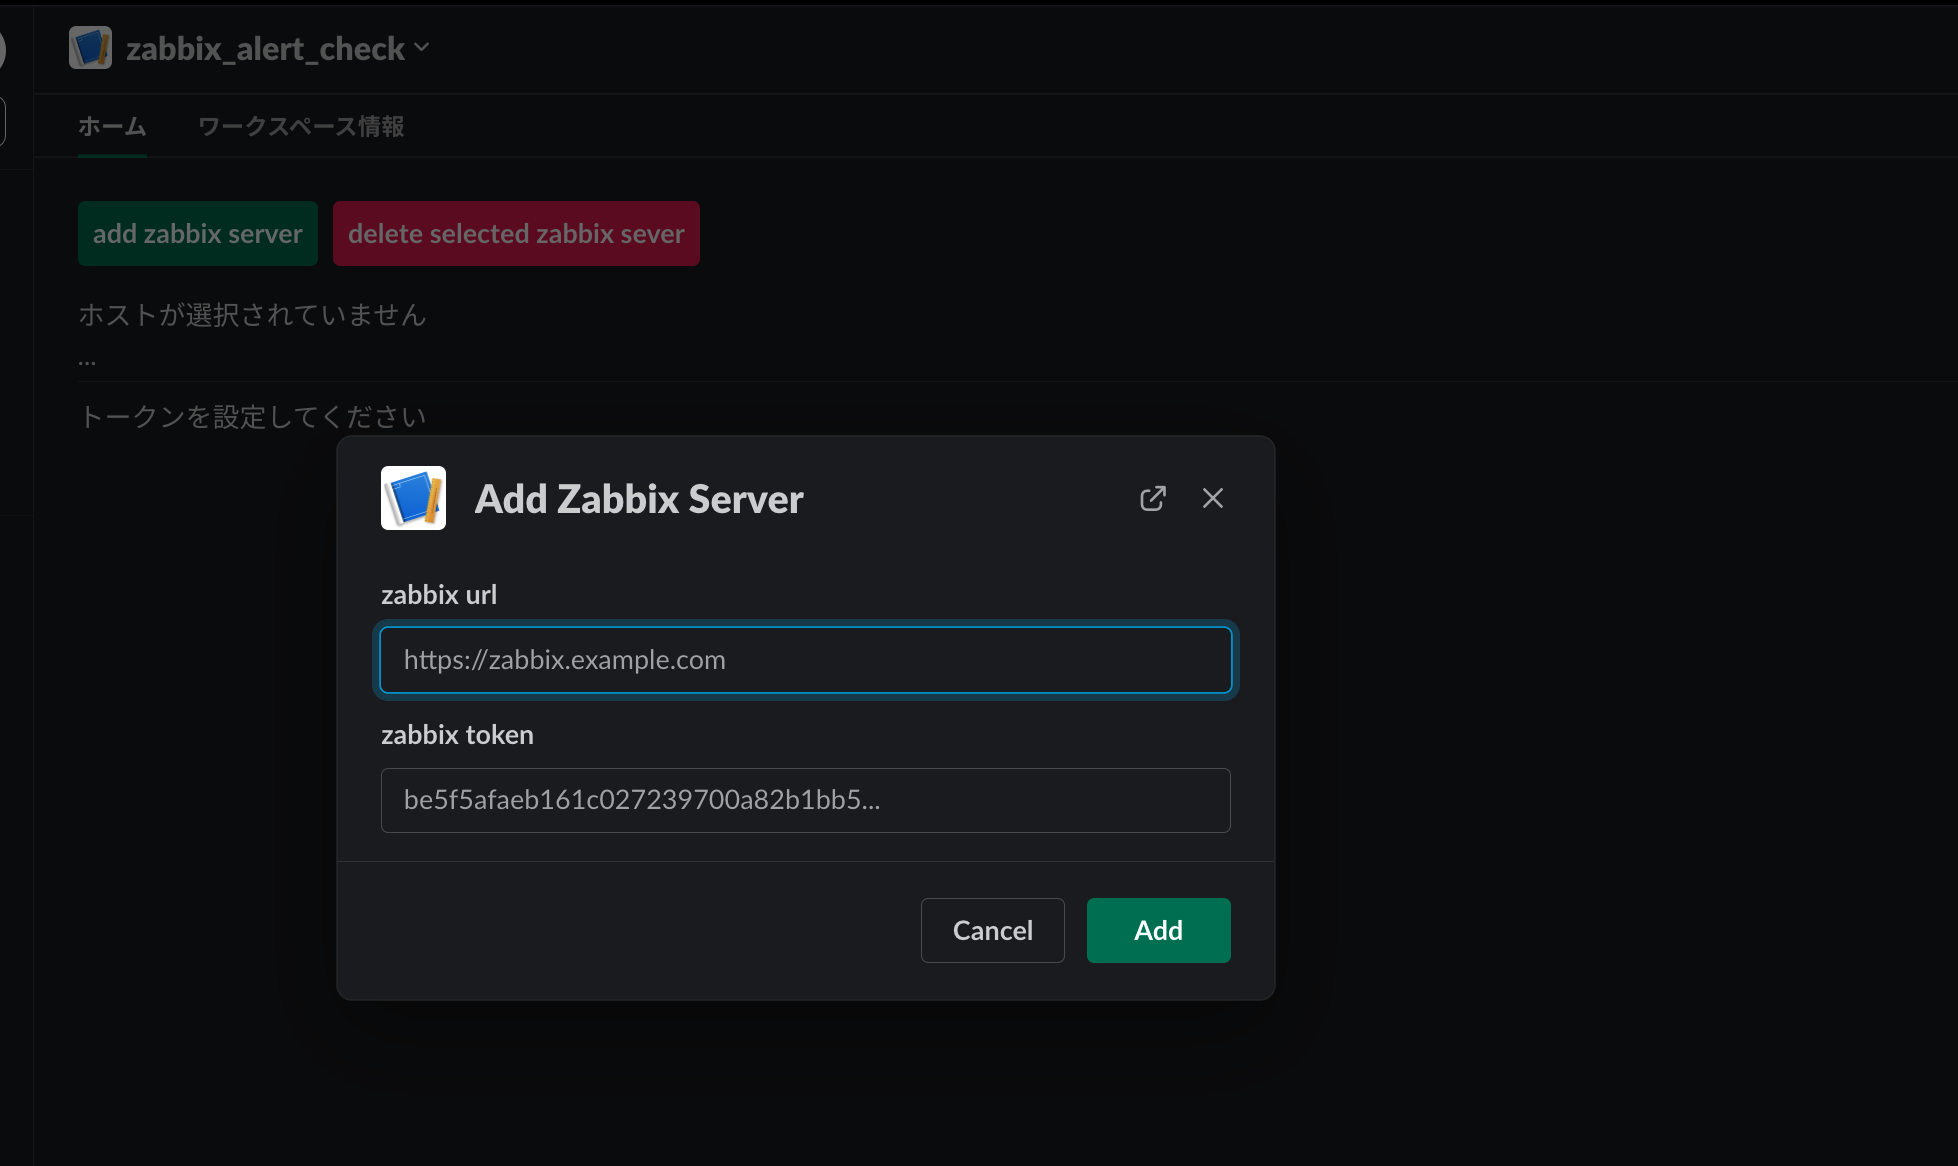
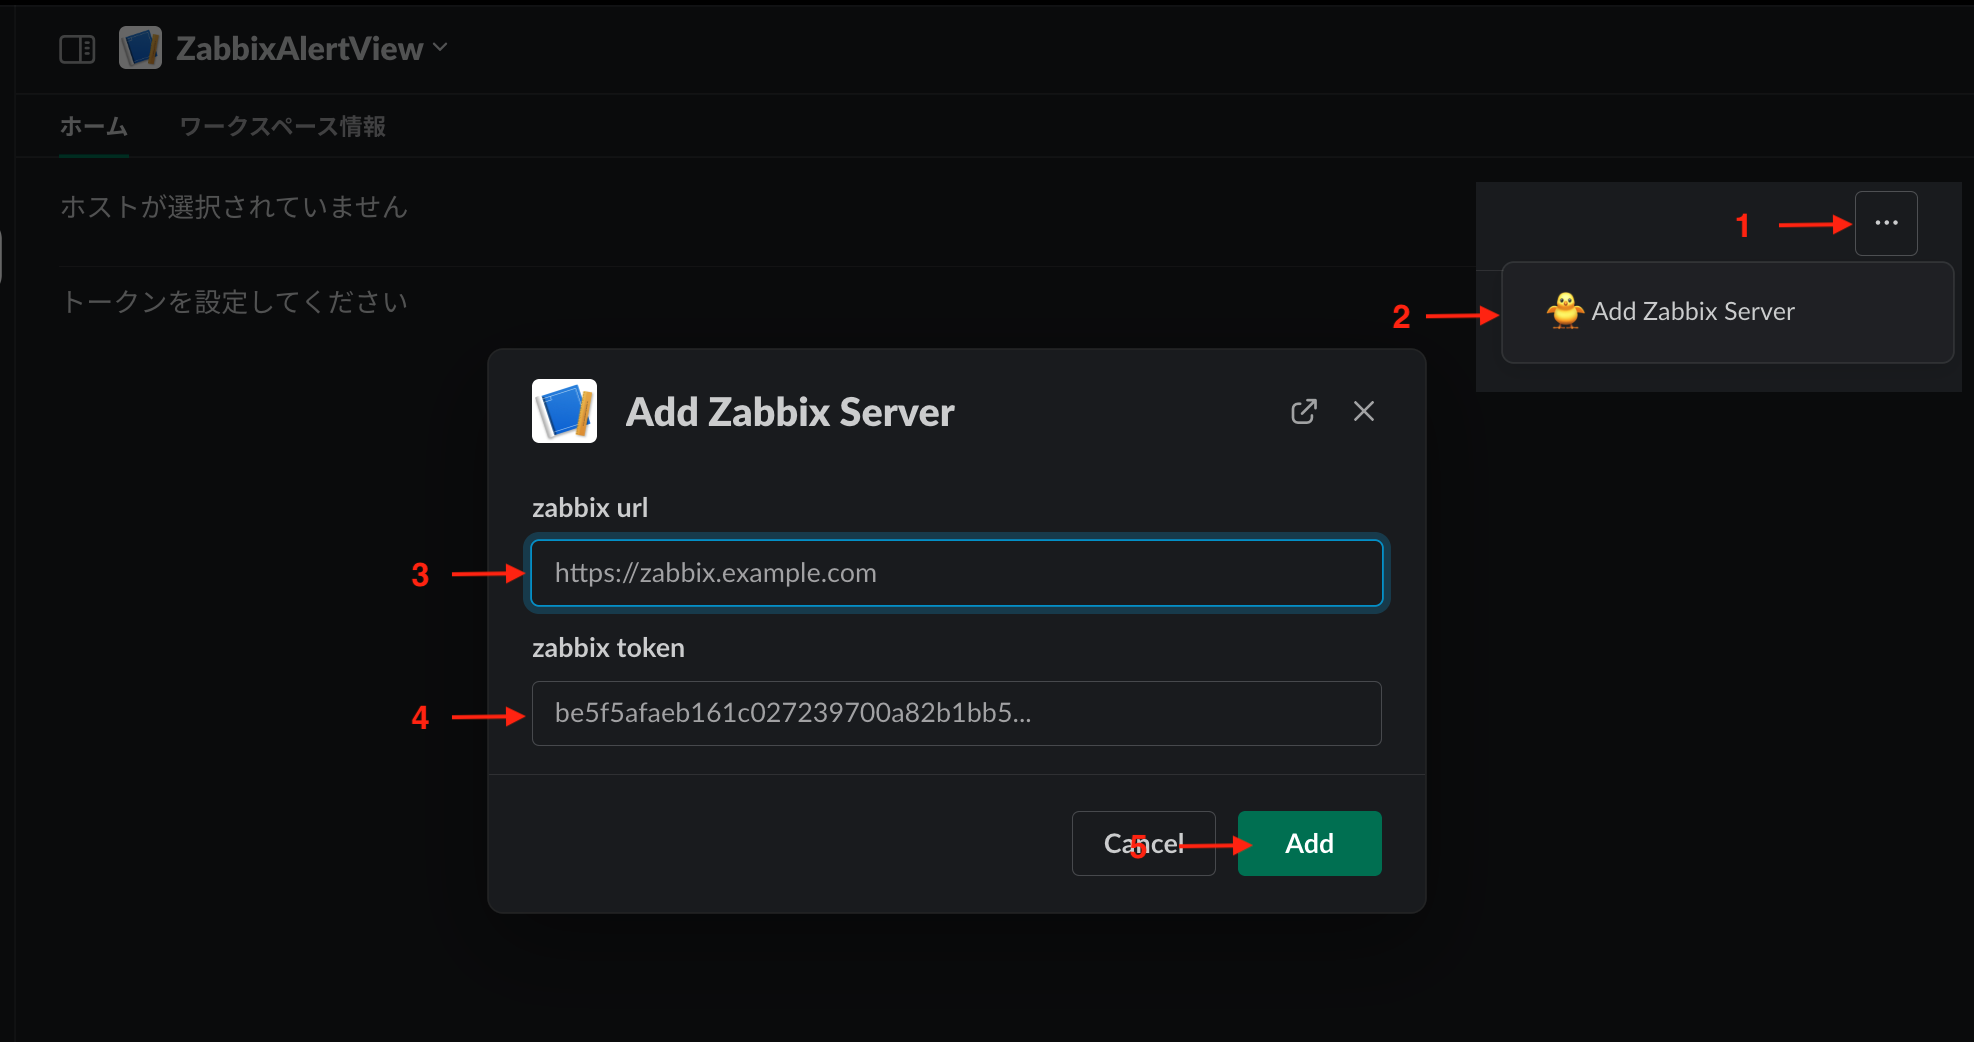
fix view

diff --git a/content/src/slack.ts b/content/src/slack.ts
@@ -2,14 +2,14 @@ import moment from "moment";
 import { getHosts, getSelectHost, getTokenByUser } from "./token";
 import { getProblem } from "./zabbix";
 
-const SEVERITY = ["未分類", "情報", "警告", "軽度の障害", "重度の障害", "致命的な障害"]
+const SEVERITY = ["未分類 :grey_question: ", "情報 :iphone: ", "警告 :eyes: ", "軽度の障害 :zap: ", "重度の障害 :rotating_light: ", "致命的な障害 :skull_and_crossbones: "]
 moment.locale('ja');
 
 // Zabbix日本語対応
 const FIELD: { [key: string]: (i: any) => any } = {
-    acknowledged: i => `アクナレッジ: ${i === "1" ? "済み" : "未"}`,
-    clock: i => `障害発生: ${moment(new Date(1000 * Number(i))).format('LLLL')}`,
-    r_clock: i => (i !== "0" ? `*\n*復旧済み: ${moment(new Date(1000 * Number(i))).format('LLLL')}` : ""),
+    acknowledged: i => `アクナレッジ: ${i === "1" ? ":white_check_mark:" : ":x:"}`,
+    clock: i => `発生: ${moment(new Date(1000 * Number(i))).format('LLLL')}`,
+    r_clock: i => (i !== "0" ? `復旧: ${moment(new Date(1000 * Number(i))).format('LLLL')} :tada:` : "復旧: :face_with_spiral_eyes:"),
     severity: i => `深刻度: ${SEVERITY[Number(i)] || "不明"}`
 }
 
@@ -68,14 +68,25 @@ const createProblemCard = (prom: any) => {
     const row: any = []
 
     prom.forEach((i: any) => {
-        const block = {
+
+        row.push({
             "type": "section",
             "text": {
                 "type": "mrkdwn",
-                "text": `*${FIELD["clock"](i["clock"])}${FIELD["r_clock"](i["r_clock"])}*\n*${i.name}*\n` + String(["severity", "acknowledged"].map((key) => {
-                    return FIELD[key] ? FIELD[key](i[key]) : `${key}: ${String(i[key])}`
-                }))
+                "text": `*障害発生: ${i.name}*\n`
             }
+        })
+        const block =
+        {
+            "type": "context",
+            "elements": [
+                ...["clock", "r_clock", "severity", "acknowledged"].map((key) => {
+                    return {
+                        "type": "mrkdwn",
+                        "text": FIELD[key] ? FIELD[key](i[key]) : `${key}: ${String(i[key])}`
+                    }
+                })
+            ]
         }
         row.push(block)
         i.r_clock === "0" && row.push({
@@ -132,70 +143,70 @@ export const createSelectHost = (user: string) => {
     const selectHostName = getSelectHost(user);
     const token = getTokenByUser(user)
     const hosts = mapHosts(user)
-    let temp: { [key: string]: any } = {
-        "type": "section",
-        "text": {
-            "type": "mrkdwn",
-            "text": selectHostName ? `*<${token?.url}|${selectHostName}>*` : "ホストが選択されていません\n..."
+    const menu: { [key: string]: any }[] = [
+        {
+            "type": "section",
+            "text": {
+                "type": "mrkdwn",
+                "text": selectHostName ? `*<${token?.url}|${selectHostName}>*` : "ホストが選択されていません"
+            },
+            "accessory": {
+                "type": "overflow",
+                "options": [
+                    {
+                        "text": {
+                            "type": "plain_text",
+                            "text": ":hatched_chick: Add Zabbix Server",
+                            "emoji": true
+                        },
+                        "value": "add_host",
+                    },
+                ],
+                "action_id": "menu_select"
+            }
         },
+    ]
+
+    if (selectHostName) {
+        menu[0].accessory.options.push({
+            "text": {
+                "type": "plain_text",
+                "text": `:wastebasket: Delete ${selectHostName}`,
+                "emoji": true
+            },
+            "value": `delete_host`,
+        })
     }
 
-    // ドロップダウンリスト
-    const accessory = hosts.length ? {
-        "type": "static_select",
-        "action_id": "select_zabbix_host",
-        "placeholder": {
-            "type": "plain_text",
-            "emoji": true,
-            "text": "change zabbix server"
-        },
-        "options": [
-            ...mapHosts(user)
+    const temp: { [key: string]: any } =
+    {
+        "type": "actions",
+        "elements": [
+            {
+                "type": "static_select",
+                "placeholder": {
+                    "type": "plain_text",
+                    "emoji": true,
+                    "text": "Change Zabbix Server",
+                },
+                "options": [...mapHosts(user)],
+                "action_id": "select_zabbix_host",
+            }
         ]
-    } : null;
+    }
 
-    // ホストの設定がない場合、ドロップダウンリストは表示しない
-    if (accessory) {
-        temp["accessory"] = accessory
+    if (hosts.length > 0) {
+        menu.push(temp)
     }
 
     // 一番初めに、追加と削除ボタンを表示
-    return [
-        {
-            "type": "actions",
-            "elements": [
-                {
-                    "type": "button",
-                    "text": {
-                        "type": "plain_text",
-                        "text": "add zabbix server",
-                        "emoji": true
-                    },
-                    "style": "primary",
-                    "value": "add_host",
-                    "action_id": "add_zabbix_host"
-                },
-                {
-                    "type": "button",
-                    "text": {
-                        "type": "plain_text",
-                        "text": "delete selected zabbix sever",
-                        "emoji": true
-                    },
-                    "style": "danger",
-                    "value": "delete_host",
-                    "action_id": "delete_zabbix_host"
-                }
-            ]
-        },
-        temp,
-
-    ]
+    return menu
 }
 
 // ドロップダウンリストのアイテム
 const mapHosts = (user: string) => {
     return getHosts(user).map(hostname => ({
+
         "text": {
             "type": "plain_text",
             "emoji": true,

diff --git a/content/src/app.ts b/content/src/app.ts
@@ -1,8 +1,9 @@
-import { App, BlockButtonAction, BlockStaticSelectAction, LogLevel } from "@slack/bolt";
+import { AllMiddlewareArgs, App, BlockButtonAction, BlockOverflowAction, BlockStaticSelectAction, LogLevel, SlackActionMiddlewareArgs } from "@slack/bolt";
 import { acknowledgeProblem, closeProblem } from "./zabbix";
 import { deleteSelectHost, setSelectHost, setToken } from "./token";
 import { sendHomeTab } from "./slack";
 import { addZabbixServerModal } from "./template";
+import { StringIndexed } from "@slack/bolt/dist/types/helpers";
 
 const app = new App({
     logLevel: LogLevel.INFO,
@@ -52,14 +53,44 @@ app.view("submit_zabbix_host", async (e) => {
     e.ack()
 })
 
+const MenuAction: {
+    [key: string]: (e: SlackActionMiddlewareArgs<BlockOverflowAction> & AllMiddlewareArgs<StringIndexed>) => void
+} = {
+    "add_host": (e) => {
+        e.client.views.open({
+            trigger_id: e.body["trigger_id"],
+            view: {
+                "type": "modal",
+                "callback_id": "submit_zabbix_host",
+                "title": { "type": "plain_text", "text": "Add Zabbix Server" },
+                "submit": { "type": "plain_text", "text": "Add" },
+                "close": { "type": "plain_text", "text": "Cancel" },
+                blocks: addZabbixServerModal
+            }
+        })
+        return
+    },
+    "delete_host": (e) => {
+        deleteSelectHost(e.body.user.id)
+
+    }
+}
+app.action<BlockOverflowAction>("menu_select", async e => {
+    console.table(e.payload)
+    MenuAction[e.payload.selected_option.value] && MenuAction[e.payload.selected_option.value](e)
+    sendHomeTab(e, e.body.user.id)
+    e.ack()
+})
+
 app.action<BlockStaticSelectAction>("select_zabbix_host", async (e) => {
+    console.log("select");
+
     setSelectHost(e.body.user.id, e.payload.selected_option.value)
     sendHomeTab(e, e.body.user.id)
     e.ack()
 })
 
 app.action<BlockStaticSelectAction>("delete_zabbix_host", async (e) => {
-    deleteSelectHost(e.body.user.id)
     sendHomeTab(e, e.body.user.id)
     e.ack()
 })

diff --git a/content/src/zabbix.ts b/content/src/zabbix.ts
@@ -31,7 +31,7 @@ export const getProblem = async (token: string, url: string) => {
         res.data.result.forEach((a: any) => {
         })
         if (res.data.result) {
-            return res.data.result as ZabbixRes[]
+            return limitArray(res.data.result, 10) as ZabbixRes[]
         }
     })
 }
@@ -71,4 +71,11 @@ const sleep = (second: number) => {
     return new Promise((resolve) => {
         setTimeout(resolve, second * 1000)
     })
+}
+
+function limitArray(arr: any[], limit: number) {
+    if (arr.length > limit) {
+        return arr.slice(0, limit);
+    }
+    return arr;
 }
